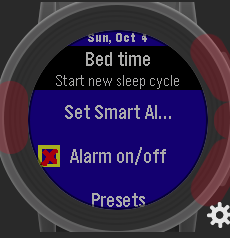
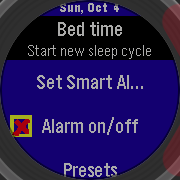
Version 3.6
Removed usage logging, usurped by better analytics from Pebble
themselves. Added menu_layer_set_center_focused to round menu - seems
nicer. Better screen captures.

diff --git a/src/js/f_control.js b/src/js/f_control.js
@@ -22,7 +22,7 @@
  * THE SOFTWARE.
  */
 
-/*global window, nvl, mConst, fixLen, pushoverTransmit, smartwatchProTransmit, sendAnonymousUsageData, addBedTimePin, addSmartAlarmPin, getQuoteOfTheDay, turnLifxLightsOn, turnHueLightsOn, iftttMakerInterfaceAlarm, iftttMakerInterfaceData, iftttMakerInterfaceBedtime */
+/*global window, nvl, mConst, fixLen, pushoverTransmit, smartwatchProTransmit, addBedTimePin, addSmartAlarmPin, getQuoteOfTheDay, turnLifxLightsOn, turnHueLightsOn, iftttMakerInterfaceAlarm, iftttMakerInterfaceData, iftttMakerInterfaceBedtime */
 
 /*
  * Reset log
@@ -288,7 +288,6 @@ function transmitMethods() {
   // Sends
   pushoverTransmit();
   smartwatchProTransmit();
-  sendAnonymousUsageData();
   iftttMakerInterfaceData();
 
   // Protect and report time

diff --git a/src/menu.c b/src/menu.c
@@ -252,6 +252,10 @@ static void window_load(Window *window) {
   width = bounds.size.w;
 
   menu_layer = menu_layer_create(bounds);
+  
+  #ifdef PBL_ROUND
+  menu_layer_set_center_focused(menu_layer, true);
+  #endif
 
   menu_layer_set_callbacks(menu_layer, NULL, (MenuLayerCallbacks ) { .get_num_sections = menu_get_num_sections_callback, .get_num_rows = menu_get_num_rows_callback, .get_header_height = menu_get_header_height_callback, .draw_header = menu_draw_header_callback, .draw_row = menu_draw_row_callback, .select_click = menu_select_callback, });
 

diff --git a/src/presets.c b/src/presets.c
@@ -229,6 +229,10 @@ static void window_load(Window *window) {
   width = bounds.size.w;
 
   menu_layer = menu_layer_create(bounds);
+  
+  #ifdef PBL_ROUND
+  menu_layer_set_center_focused(menu_layer, true);
+  #endif
 
   menu_layer_set_callbacks(menu_layer, NULL, (MenuLayerCallbacks ) { .get_num_sections = menu_get_num_sections_callback, .get_num_rows = menu_get_num_rows_callback, .get_header_height = menu_get_header_height_callback, .draw_header = menu_draw_header_callback, .draw_row = menu_draw_row_callback, .select_click = menu_select_callback, });
 
